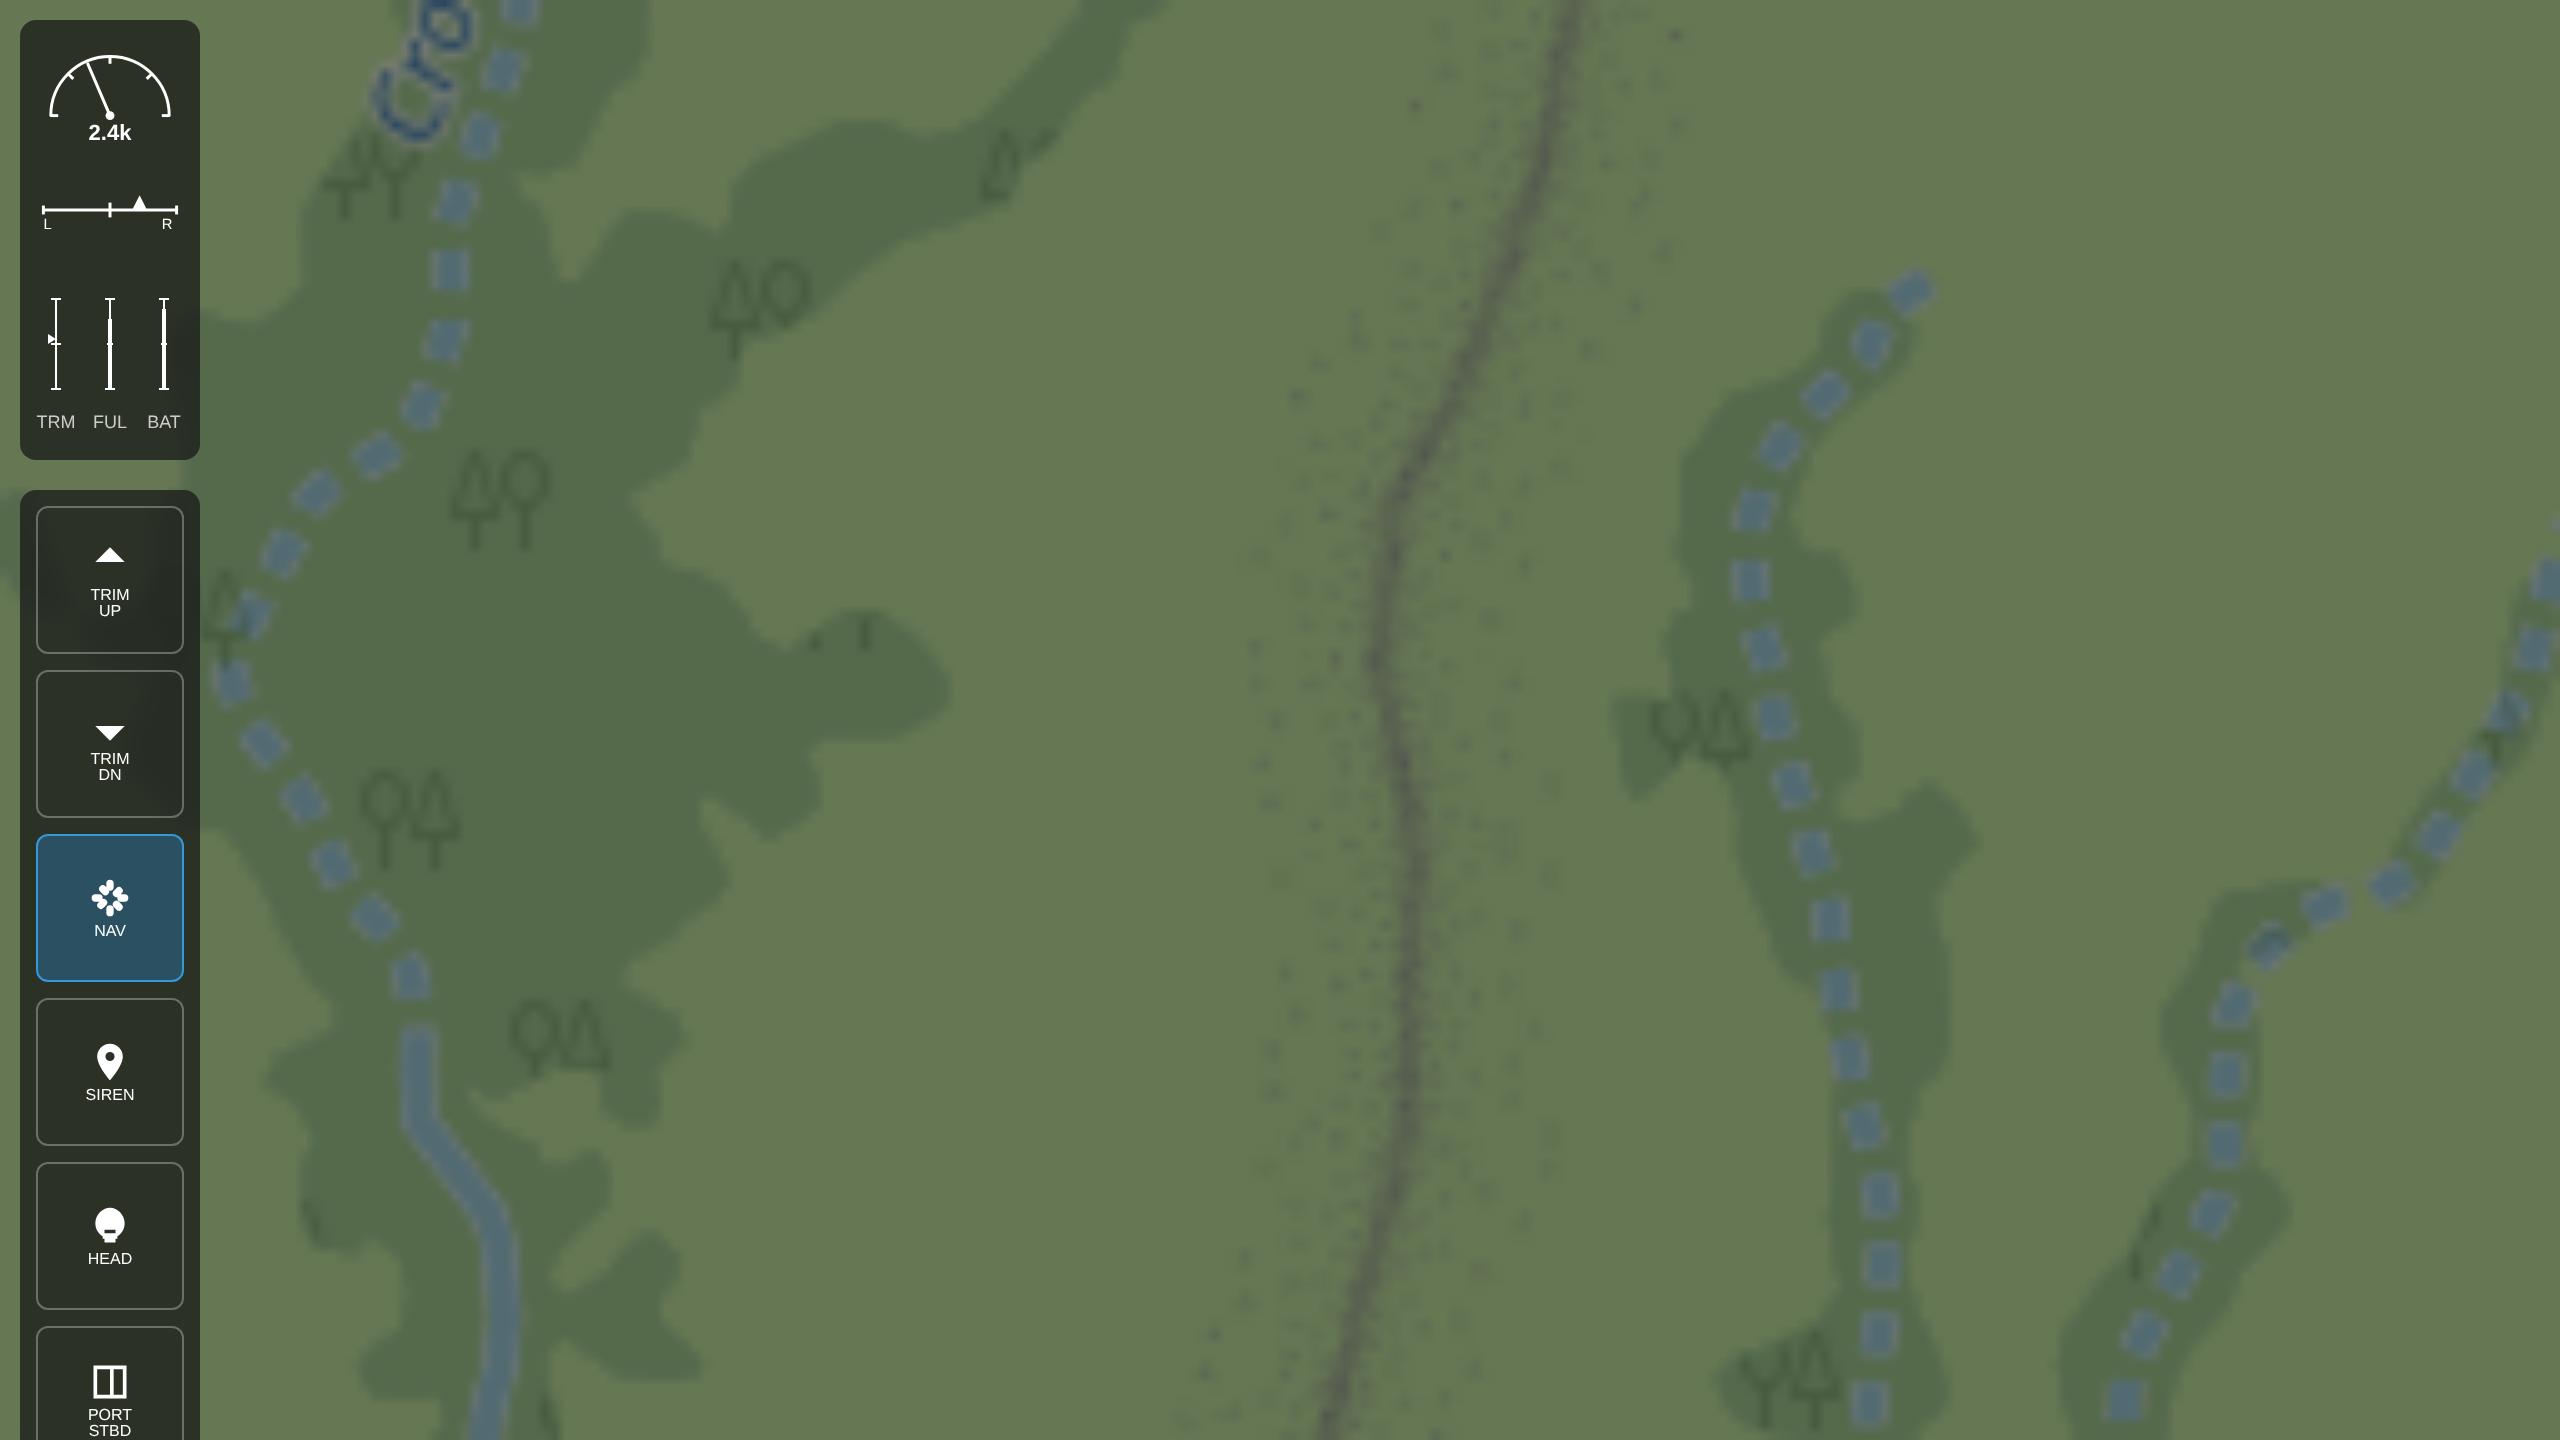
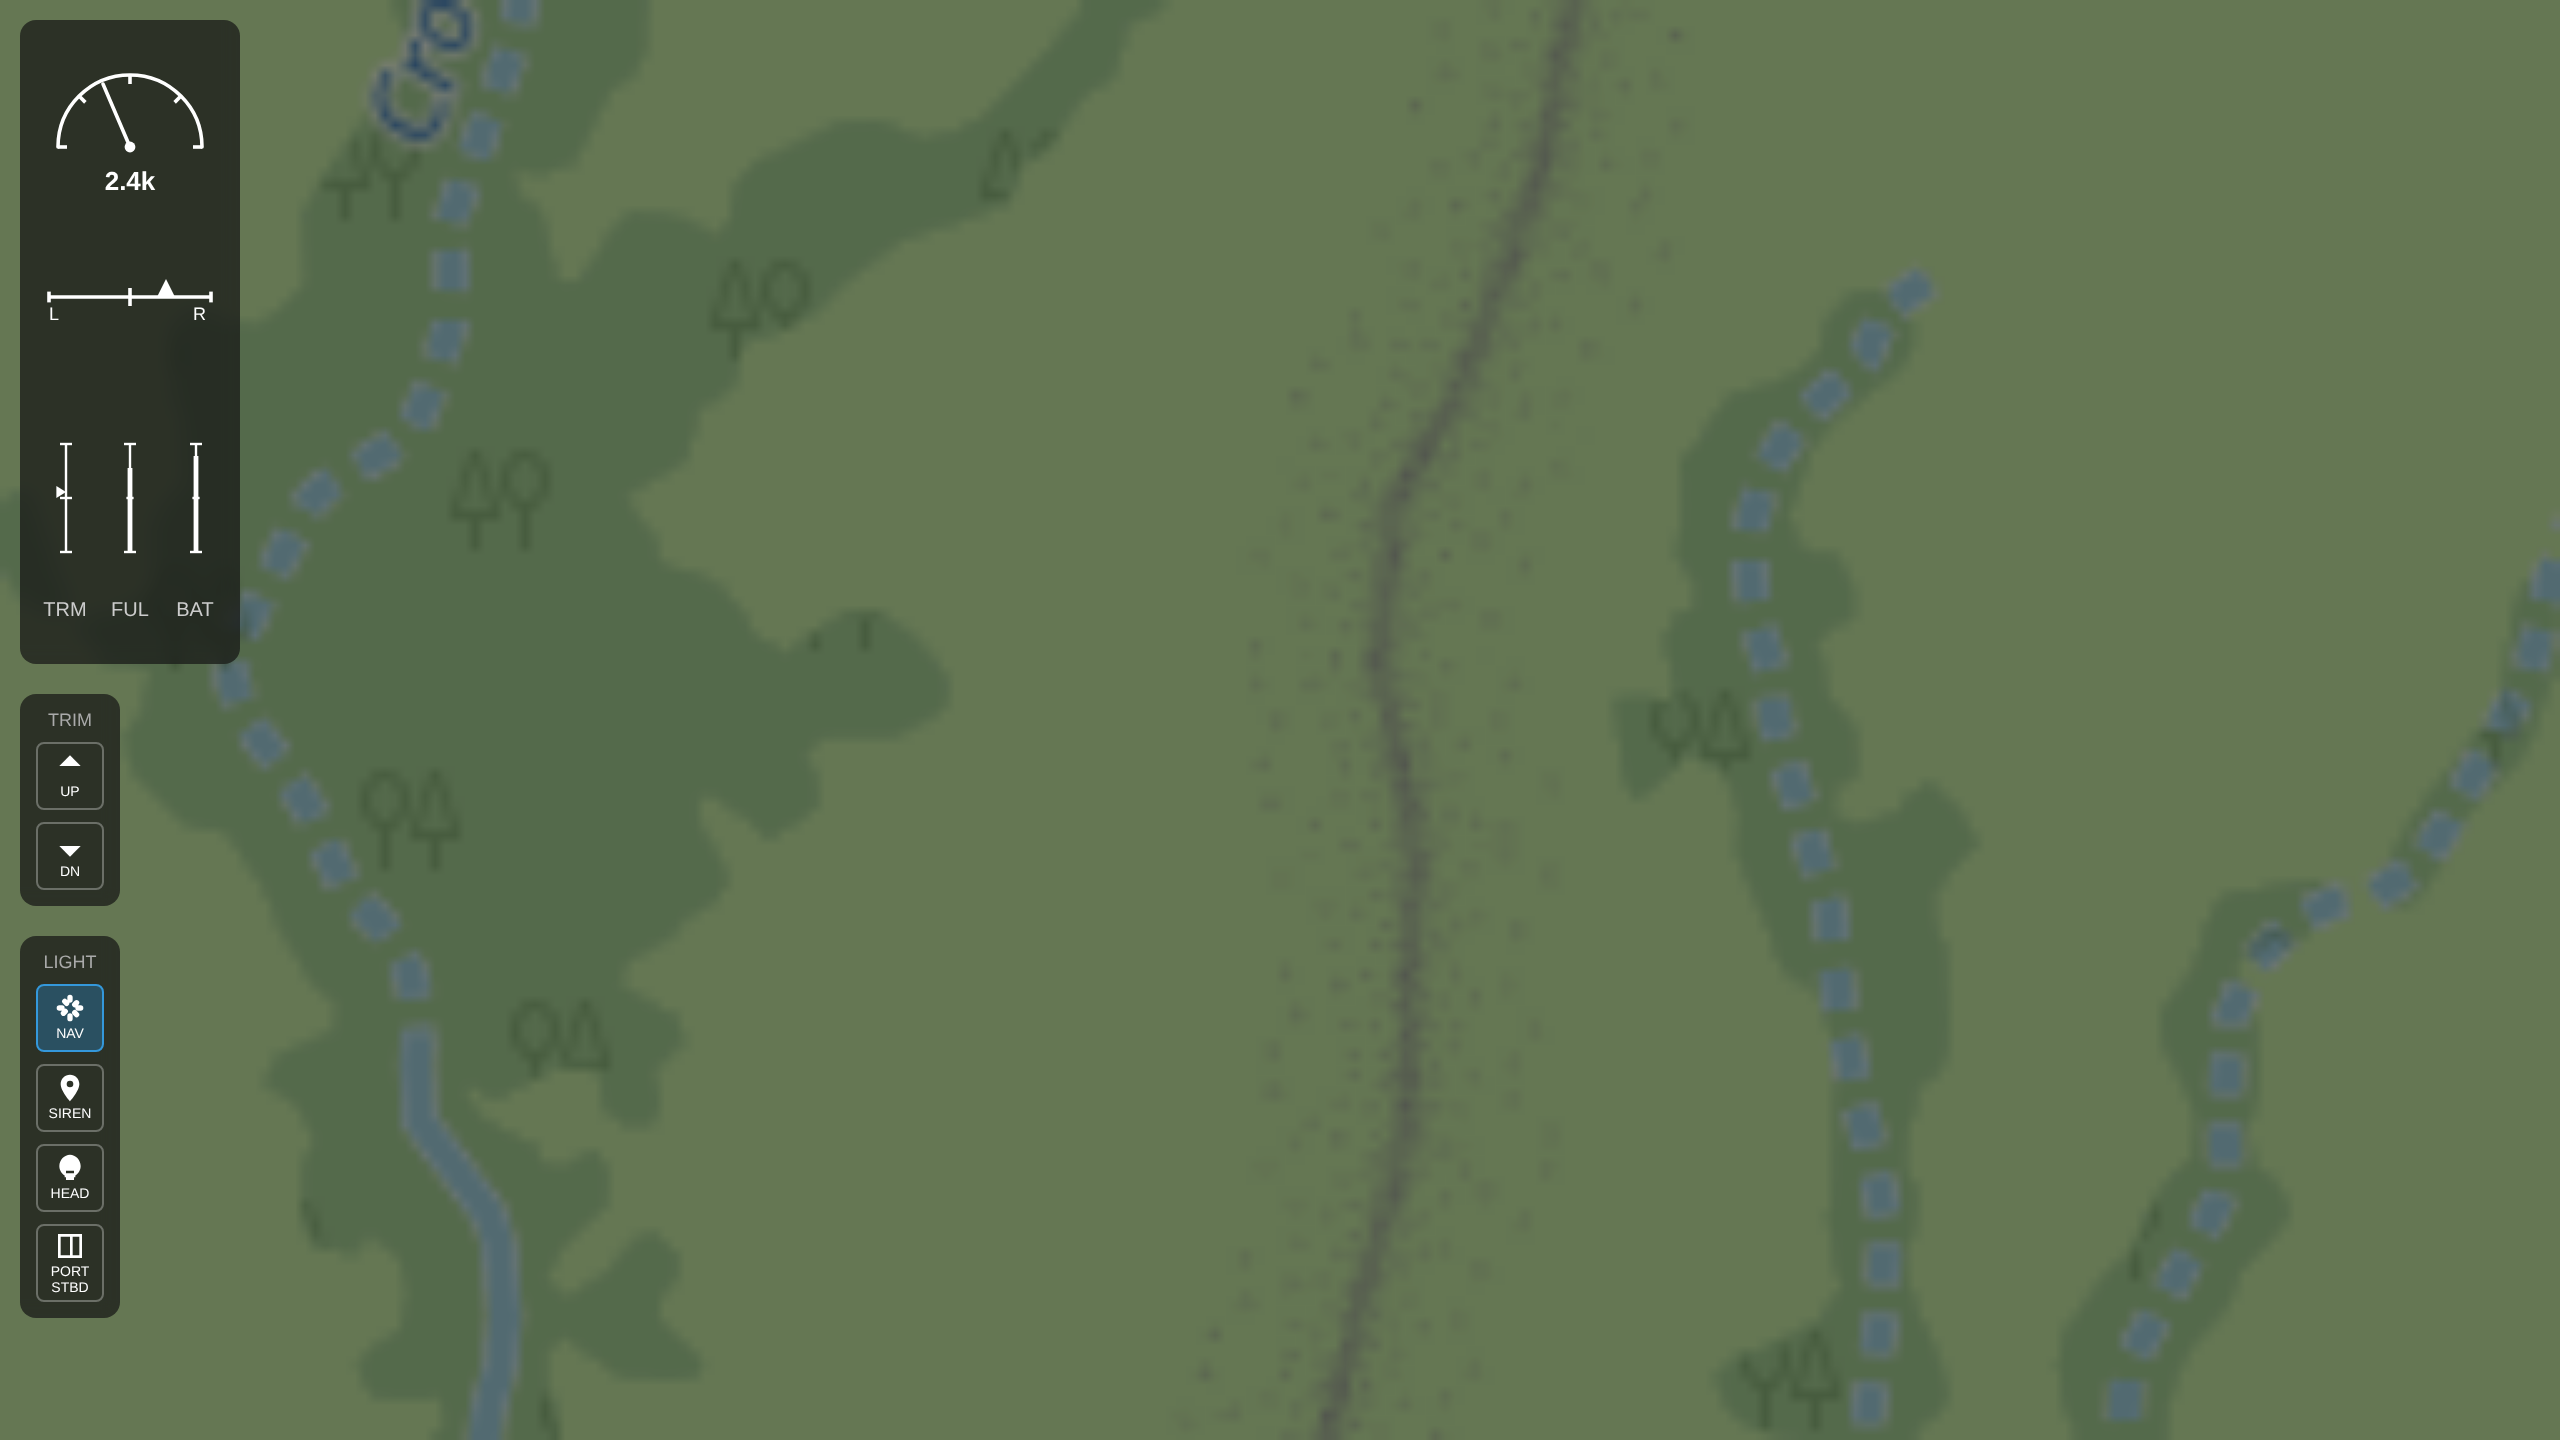
feat: adjust boat UI mockup panel sizes and separation
Expanded the telemetry panel to be 1.2x wider and 1.5x taller for better visibility.
Separated the single control block into independent 'TRIM' and 'LIGHT' panels.
Reduced the width of the control panels and the button sizes to fit tightly around the icons and text.
Regenerated `qgc_boat_mockup.png`.

Changed region(s): [[0.0, 0.0, 0.0938, 1.0]]

diff --git a/mockup.html b/mockup.html
@@ -3,7 +3,7 @@
 <head>
     <meta charset="UTF-8">
     <meta name="viewport" content="width=device-width, initial-scale=1.0">
-    <title>QGC Boat Fly View Mockup - Minimal</title>
+    <title>QGC Boat Fly View Mockup - Minimal 2.0</title>
     <style>
         body, html {
             margin: 0;
@@ -35,11 +35,11 @@
             position: absolute;
             top: 10px;
             left: 10px;
-            width: 90px; /* Much narrower, 3-4x smaller than 320px */
             z-index: 10;
             display: flex;
             flex-direction: column;
             gap: 15px;
+            align-items: flex-start;
         }
 
         /* Common Panel Style */
@@ -53,19 +53,32 @@
             align-items: center;
         }
 
+        .panel-title {
+            font-size: 9px;
+            color: #aaa;
+            margin-bottom: 6px;
+            text-transform: uppercase;
+        }
+
         /* --- Telemetry Styles --- */
+        .telemetry-panel {
+            width: 110px; /* ~1.2x wider than previous 90px */
+            /* Height is driven by content, which we'll make ~1.5x taller */
+            box-sizing: border-box;
+        }
+
         .telemetry-section {
             width: 100%;
             display: flex;
             flex-direction: column;
             align-items: center;
-            margin-bottom: 12px;
+            margin-bottom: 18px; /* scaled up */
         }
 
         /* RPM Gauge */
         .rpm-container {
-            width: 74px;
-            height: 50px;
+            width: 90px; /* scaled up */
+            height: 75px; /* scaled up from 50px */
             position: relative;
         }
         .rpm-val {
@@ -73,40 +86,40 @@
             bottom: -5px;
             width: 100%;
             text-align: center;
-            font-size: 11px;
+            font-size: 13px;
             font-weight: bold;
         }
 
         /* Rudder */
         .rudder-container {
-            width: 74px;
-            height: 30px;
+            width: 90px; /* scaled up */
+            height: 45px; /* scaled up from 30px */
             position: relative;
-            margin-top: 10px;
+            margin-top: 15px;
         }
 
         /* Vertical Scales */
         .v-scales-container {
             display: flex;
             justify-content: space-between;
-            width: 74px;
-            height: 80px;
-            margin-top: 10px;
+            width: 90px; /* scaled up */
+            height: 120px; /* 1.5x taller from 80px */
+            margin-top: 15px;
         }
         .v-scale {
             display: flex;
             flex-direction: column;
             align-items: center;
-            width: 20px;
+            width: 25px; /* scaled up */
         }
         .v-scale-bar {
             position: relative;
-            width: 10px;
-            height: 60px;
+            width: 12px;
+            height: 90px; /* 1.5x taller from 60px */
         }
         .v-label {
-            font-size: 9px;
-            margin-top: 4px;
+            font-size: 10px;
+            margin-top: 6px;
             color: #ccc;
         }
 
@@ -119,10 +132,15 @@
         }
 
         /* --- Control Styles --- */
+        .control-panel {
+            width: 50px; /* narrower than telemetry */
+            box-sizing: border-box;
+        }
+
         .control-grid {
             display: flex;
             flex-direction: column;
-            gap: 8px;
+            gap: 6px;
             width: 100%;
         }
 
@@ -130,7 +148,7 @@
             background: transparent;
             border: 1px solid rgba(255,255,255,0.3);
             color: white;
-            border-radius: 6px;
+            border-radius: 4px;
             width: 100%;
             aspect-ratio: 1; /* Make them square */
             display: flex;
@@ -139,7 +157,7 @@
             justify-content: center;
             cursor: pointer;
             transition: all 0.2s;
-            padding: 4px;
+            padding: 2px;
             box-sizing: border-box;
         }
 
@@ -153,16 +171,16 @@
         }
 
         .btn-icon {
-            width: 22px;
-            height: 22px;
+            width: 16px;
+            height: 16px;
             fill: currentColor;
             margin-bottom: 2px;
         }
 
         .btn-lbl {
-            font-size: 8px;
+            font-size: 7px;
             text-align: center;
-            line-height: 1;
+            line-height: 1.1;
         }
     </style>
 </head>
@@ -175,7 +193,7 @@
     <div class="left-panel">
 
         <!-- Telemetry Panel -->
-        <div class="panel">
+        <div class="panel telemetry-panel">
 
             <!-- RPM -->
             <div class="telemetry-section">
@@ -269,22 +287,30 @@
 
         </div>
 
-        <!-- Interactive Control Panel -->
-        <div class="panel">
+        <!-- Trim Control Panel -->
+        <div class="panel control-panel">
+            <div class="panel-title">TRIM</div>
             <div class="control-grid">
 
                 <!-- Trim Up -->
                 <button class="btn">
                     <svg class="btn-icon" viewBox="0 0 24 24"><path d="M12 4l-8 8h16z"/></svg>
-                    <span class="btn-lbl">TRIM<br>UP</span>
+                    <span class="btn-lbl">UP</span>
                 </button>
 
                 <!-- Trim Down -->
                 <button class="btn">
                     <svg class="btn-icon" viewBox="0 0 24 24"><path d="M12 20l8-8H4z"/></svg>
-                    <span class="btn-lbl">TRIM<br>DN</span>
+                    <span class="btn-lbl">DN</span>
                 </button>
 
+            </div>
+        </div>
+
+        <!-- Light Control Panel -->
+        <div class="panel control-panel">
+            <div class="panel-title">LIGHT</div>
+            <div class="control-grid">
                 <!-- Nav -->
                 <button class="btn active">
                     <svg class="btn-icon" viewBox="0 0 24 24"><path d="M12 2a2 2 0 0 1 2 2v2a2 2 0 0 1-4 0V4a2 2 0 0 1 2-2zm6.36 4.64a2 2 0 0 1 0 2.83l-1.42 1.41a2 2 0 0 1-2.83-2.83l1.41-1.41a2 2 0 0 1 2.84 0zM22 12a2 2 0 0 1-2 2h-2a2 2 0 0 1 0-4h2a2 2 0 0 1 2 2zM12 22a2 2 0 0 1-2-2v-2a2 2 0 0 1 4 0v2a2 2 0 0 1-2 2zm-6.36-4.64a2 2 0 0 1 0-2.83l1.42-1.41a2 2 0 0 1 2.83 2.83l-1.41 1.41a2 2 0 0 1-2.84 0zM2 12a2 2 0 0 1 2-2h2a2 2 0 0 1 0 4H4a2 2 0 0 1-2-2zm4.64-6.36a2 2 0 0 1 2.83 0l1.41 1.42a2 2 0 0 1-2.83 2.83L6.64 8.47a2 2 0 0 1 0-2.83zM18.36 18.36a2 2 0 0 1-2.83 0l-1.41-1.42a2 2 0 0 1 2.83-2.83l1.41 1.42a2 2 0 0 1 0 2.83z"/></svg>
@@ -308,7 +334,6 @@
                     <svg class="btn-icon" viewBox="0 0 24 24"><path d="M21 3H3v18h18V3zM12 19H5V5h7v14zm7 0h-5V5h5v14z"/></svg>
                     <span class="btn-lbl">PORT<br>STBD</span>
                 </button>
-
             </div>
         </div>
     </div>
